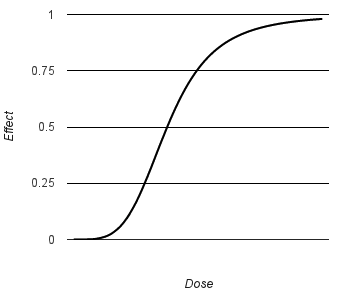
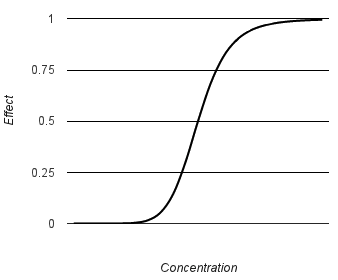
Updated pd chart
Fixed equation that generated chart and added a caption

diff --git a/proposal.md b/proposal.md
@@ -364,9 +364,9 @@ based on PP~i~ depletion caused adenosine, signal disruption that is proposed
 here, Aim 1 will pursue further molecular biology experiments to support or
 invalidate the working model.
 
-\begin{SCfigure}
+\begin{figure}
 	\centering
-		\includegraphics[width=.75\textwidth]{images/ado-signaling.png}
+		\includegraphics[width=\textwidth]{images/ado-signaling.png}
 		\caption{\label{fig:signaling} Components in determining ADO signaling
 		mechanism in ACDC. SLC29 is a transport protein that moves
 		extracellular ADO into the cytosol. ADO uptake by SLC29 is inhibited by
@@ -375,7 +375,7 @@ invalidate the working model.
 		ARA and inhibited by its respective ARANT. These components together
 		allow for experimental probing to pinpoint the exact adenosine
 		signaling mechanism that regulates TNAP expression.}
-\end{SCfigure}
+\end{figure}
 
 ### Experimental Plan
 
@@ -600,7 +600,7 @@ E~max~ is the maximum observable drug effect, $C$ is the drug concentration,
 and $n$ is the cooperativeity coefficient.
 
 \begin{equation}\label{eq:hill}
-E = \frac{E_{max}C^n}{EC_{50}+C^n}
+E = \frac{E_{max}^nC^n}{EC_{50}+C^n}
 \end{equation}
 
 This PD dose-effect model will be directly coupled with the concentrations in
@@ -615,7 +615,12 @@ fits the experimental data better (Figure \ref{fig:pkpd}).
 \begin{SCfigure}
 	\centering
 		\includegraphics[width=.5\textwidth]{images/pd.png}
-		\caption{\label{fig:pd}Typical PD curve for drug effects.}
+		\caption{\label{fig:pd}A Hill-type PD curve for modeling dose response
+		from empirical data, based on Equation \ref{eq:hill}. The parameters
+		that tune the characteristics of this curve are $E_{max}$, $EC_{50}$,
+		and $n$. $E_{max}$ is the concentration that produces half of the
+		maximal effect. $E_{max}$ is the maximal effect for the system. $n$ is
+		the Hill coefficient which changes the steepness of the curve.}
 \end{SCfigure}
 
 Main purposes of this Aim is to aid therapy planning and design through
